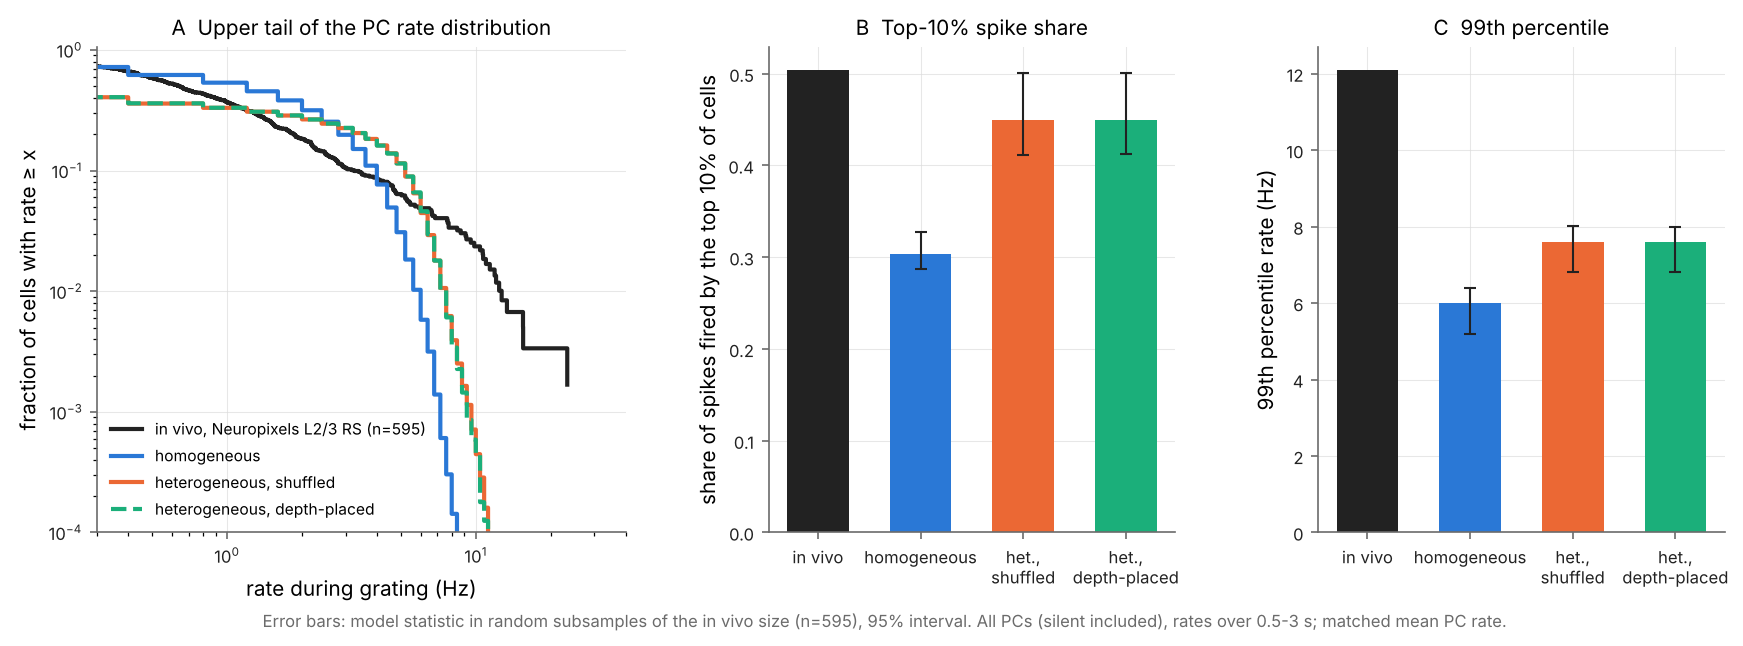
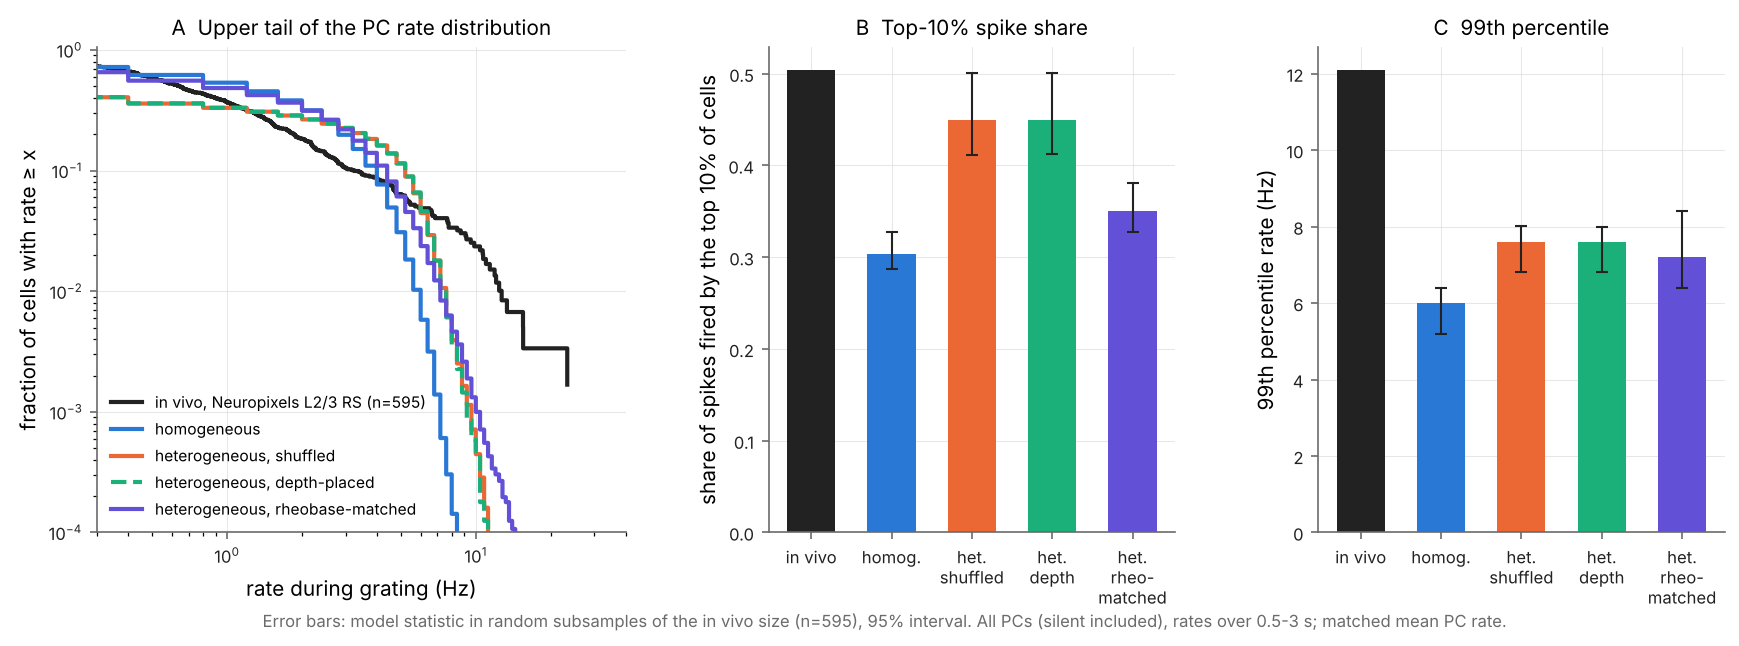
Aim 2 controls: add the rheobase-matched control
With each PC's input scaled by its model's rheobase / 90 pA, the top-10% share drops from 0.45 to
0.35 (homogeneous 0.30), silent cells return to 35%, and input drive explains 73% of log rate vs 12%
for model identity: in the 8 fits, threshold differences carry most of the skew.

Claude-Session: https://claude.ai/code/session_0167Uspvq9EuusiN8qkoWckx

diff --git a/Isolated L2_3 circuit/experiments/aim2_controls/plot_results.py b/Isolated L2_3 circuit/experiments/aim2_controls/plot_results.py
@@ -67,7 +67,9 @@ def main():
             lo, md, hi = C[c]["at_invivo_n"][key]
             ax.bar(i, C[c][key], 0.6, color=COL[c])
             ax.errorbar(i, md, yerr=[[md - lo], [hi - md]], color=INK, capsize=3, lw=1)
-        ax.set_xticks(xs, ["in vivo"] + [c.replace("heterogeneous, ", "het.,\n") for c in main_conds], fontsize=7.5)
+        ax.set_xticks(xs, ["in vivo"] + [{"homogeneous": "homog.", "heterogeneous, shuffled": "het.\nshuffled",
+                                         "heterogeneous, depth-placed": "het.\ndepth", "heterogeneous, rheobase-matched": "het.\nrheo-\nmatched"}.get(c, c)
+                                        for c in main_conds], fontsize=7.5)
         ax.set(ylabel=lab)
     axs[1].set_title("B  Top-10% spike share")
     axs[2].set_title("C  99th percentile")

diff --git a/Isolated L2_3 circuit/experiments/aim2_controls/README.md b/Isolated L2_3 circuit/experiments/aim2_controls/README.md
@@ -38,8 +38,8 @@ fluctuating input (`characterize_models.py`).
   condition.
 - **Gain:** `--gain` scales only the synapses onto PCs. It is tuned per condition on 3 s runs, so that the
   mean PC rate over 0–3 s matches the homogeneous network at gain 0.848 (1.36 Hz).
-- **Tuned gains:** heterogeneous 1.284 (1.34 Hz). Homogeneous PCs with homogeneous interneurons 0.848
-  (1.32 Hz).
+- **Tuned gains:** heterogeneous 1.284 (1.34 Hz). Rheobase-matched 0.878 (1.39 Hz). Homogeneous PCs with
+  homogeneous interneurons 0.848 (1.32 Hz).
 - **Excitability confound:** the Standard is the most excitable of the 8 models, so a heterogeneous network
   needs more input gain to reach the same mean.
 - **Rate window:** rates are measured over the grating window (0.5–3 s), as in the earlier in vivo comparison.
@@ -54,6 +54,7 @@ fluctuating input (`characterize_models.py`).
 | homogeneous ANN PCs | 1.58 | 0.28 | 0.30 | 6.0 | 10.4 |
 | heterogeneous, shuffled | 1.40 | 0.59 | **0.45** (0.41–0.50) | **7.6** (6.8–8.0) | 17.2 |
 | heterogeneous, depth-placed | 1.40 | 0.59 | 0.45 | 7.6 | 13.2 |
+| heterogeneous, rheobase-matched | 1.61 | 0.35 | 0.35 (0.33–0.38) | 7.2 (6.4–8.4) | 16.8 |
 | homogeneous PCs, homogeneous IN | 1.53 | 0.28 | 0.31 | 5.6 | 10.0 |
 | heterogeneous PCs, homogeneous IN | 1.37 | 0.60 | 0.45 | 7.2 | 17.2 |
 
@@ -72,6 +73,15 @@ explain 80%. The most excitable model (lowest rheobase) supplies 62% of the top-
 gives Spearman 0.76. The top-10% cells still sit at the 84th percentile of input drive, so both factors
 matter (`fig2_rank_test.png`). With 8 discrete models, this test can only resolve between-model effects. The
 R21 library of 60–80 cells is what makes it a real test.
+
+**Rheobase-matched control: most of the effect is rheobase.** Each PC's input is scaled by its model's
+rheobase / 90 pA, which equalizes threshold while keeping each model's gain, adaptation and spike timing.
+The top-10% share then falls from 0.45 to 0.35, against 0.30 homogeneous. The silent fraction returns to
+35%, close to in vivo. The rank test flips: input drive explains 73% of log rate and model identity 12%.
+Rate vs −rheobase gives Spearman −0.04, and the top-10% cells sit at the 94th percentile of input drive. So
+in these 8 fits, threshold differences produce most of the skew, and the remaining f-I differences add a
+little (0.30 → 0.35, with p99 6.0 → 7.2 Hz). For the R21, the rheobase spread of the real library is the
+quantity to measure and report.
 
 **(c) Depth placement is null by construction.** In the Allen V1 model, the input from outside L2/3 does not
 depend on depth (external current vs depth, Spearman 0.0001; homogeneous rate vs depth, 0.0005). Depth-placed
@@ -94,8 +104,8 @@ changed PC spike pattern. The R21 runs should report interneuron rates for every
 - The pipeline runs end to end: populations from fitted cells, tuning, rate statistics at the in vivo
   sample size, the rank test, and depth and interneuron controls. A 3 s run takes about 1 h on 4 CPUs.
 - The question is well posed. Intrinsic heterogeneity of fitted cells changes the share of the top 10%
-  strongly (0.30 → 0.45). Whether it also makes the long upper tail is open, and that depends on the spread
-  of the real library.
+  strongly (0.30 → 0.45), and rheobase carries most of that. Whether it also makes the long upper tail is
+  open, and that depends on the spread of the real library.
 - The depth and interneuron controls need changes before they mean anything: depth-dependent inputs, and
   rate-matched homogeneous interneurons.
 
@@ -124,5 +134,4 @@ python experiments/aim2_controls/plot_results.py --analysis experiments/aim2_con
 
 `runs.json` lists the spike files used. They live outside git and are copied to the project files under
 `aim2_controls/`. The rheobase-matched control (`populations/rheo_matched.json`) gives each PC an input scale of
-its model's rheobase / 90 pA, which removes the mean excitability difference. It is still running and will be
-added to this folder when done.
+its model's rheobase / 90 pA, which removes the threshold difference (results above).
